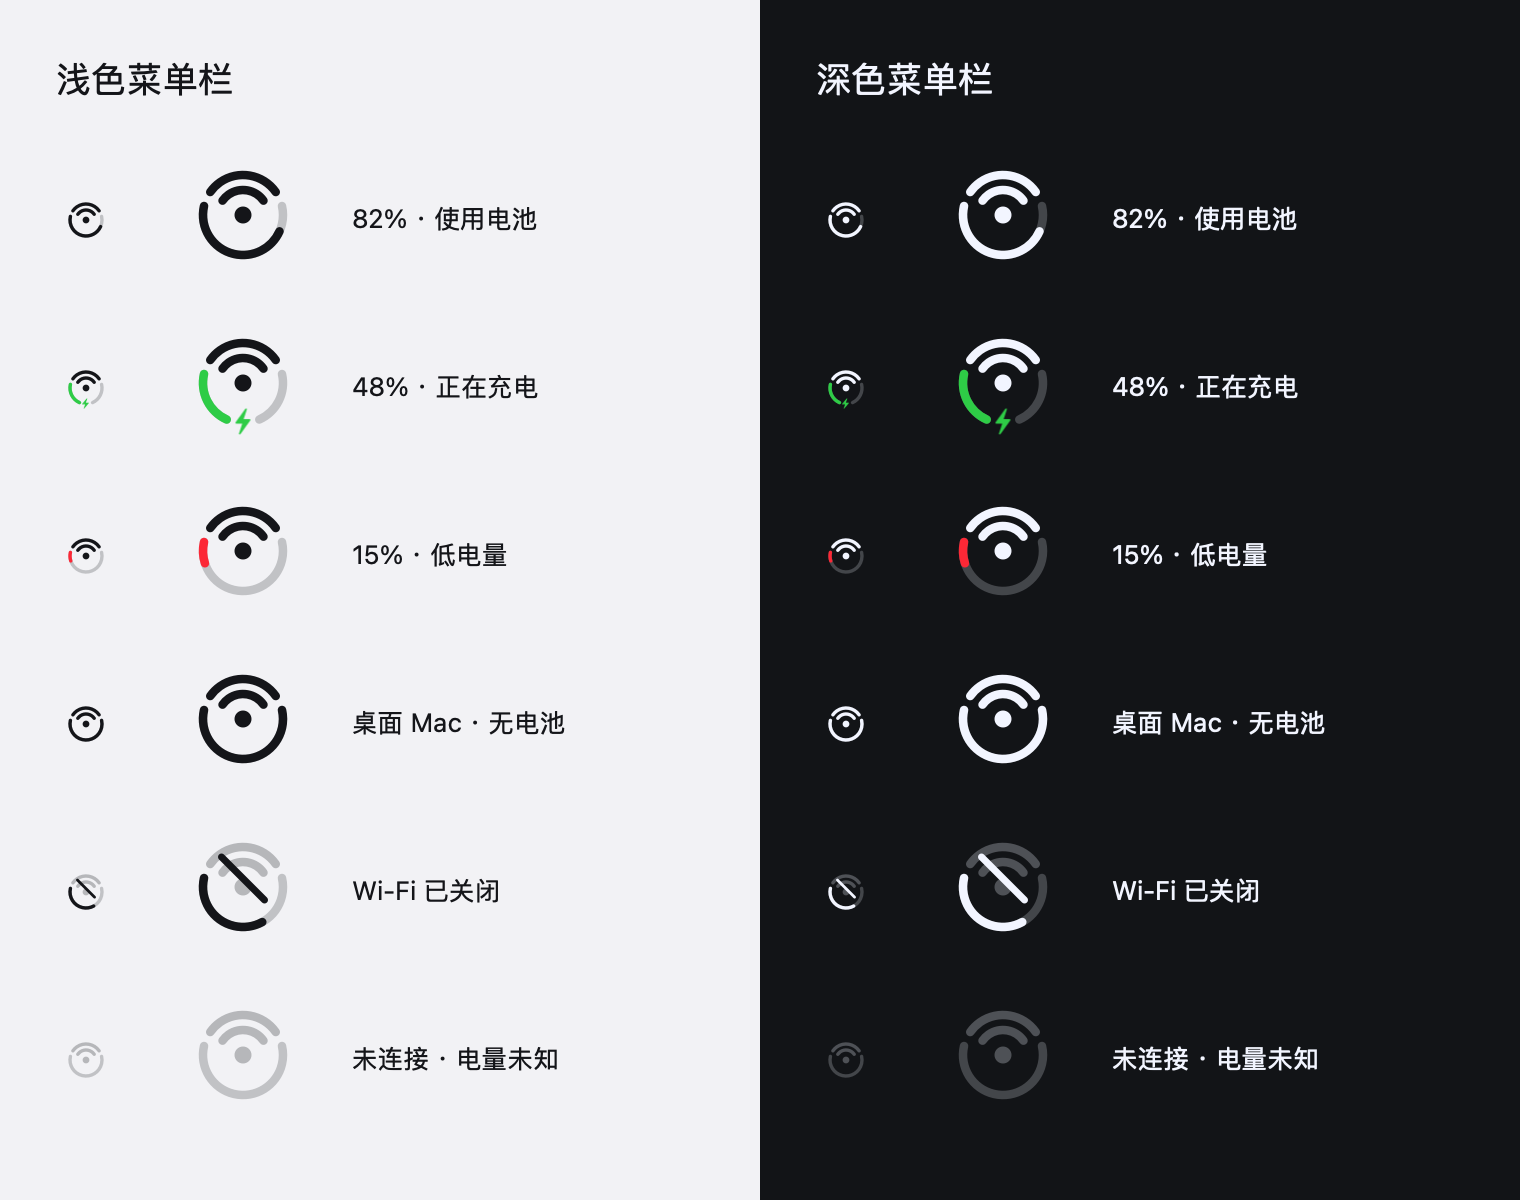
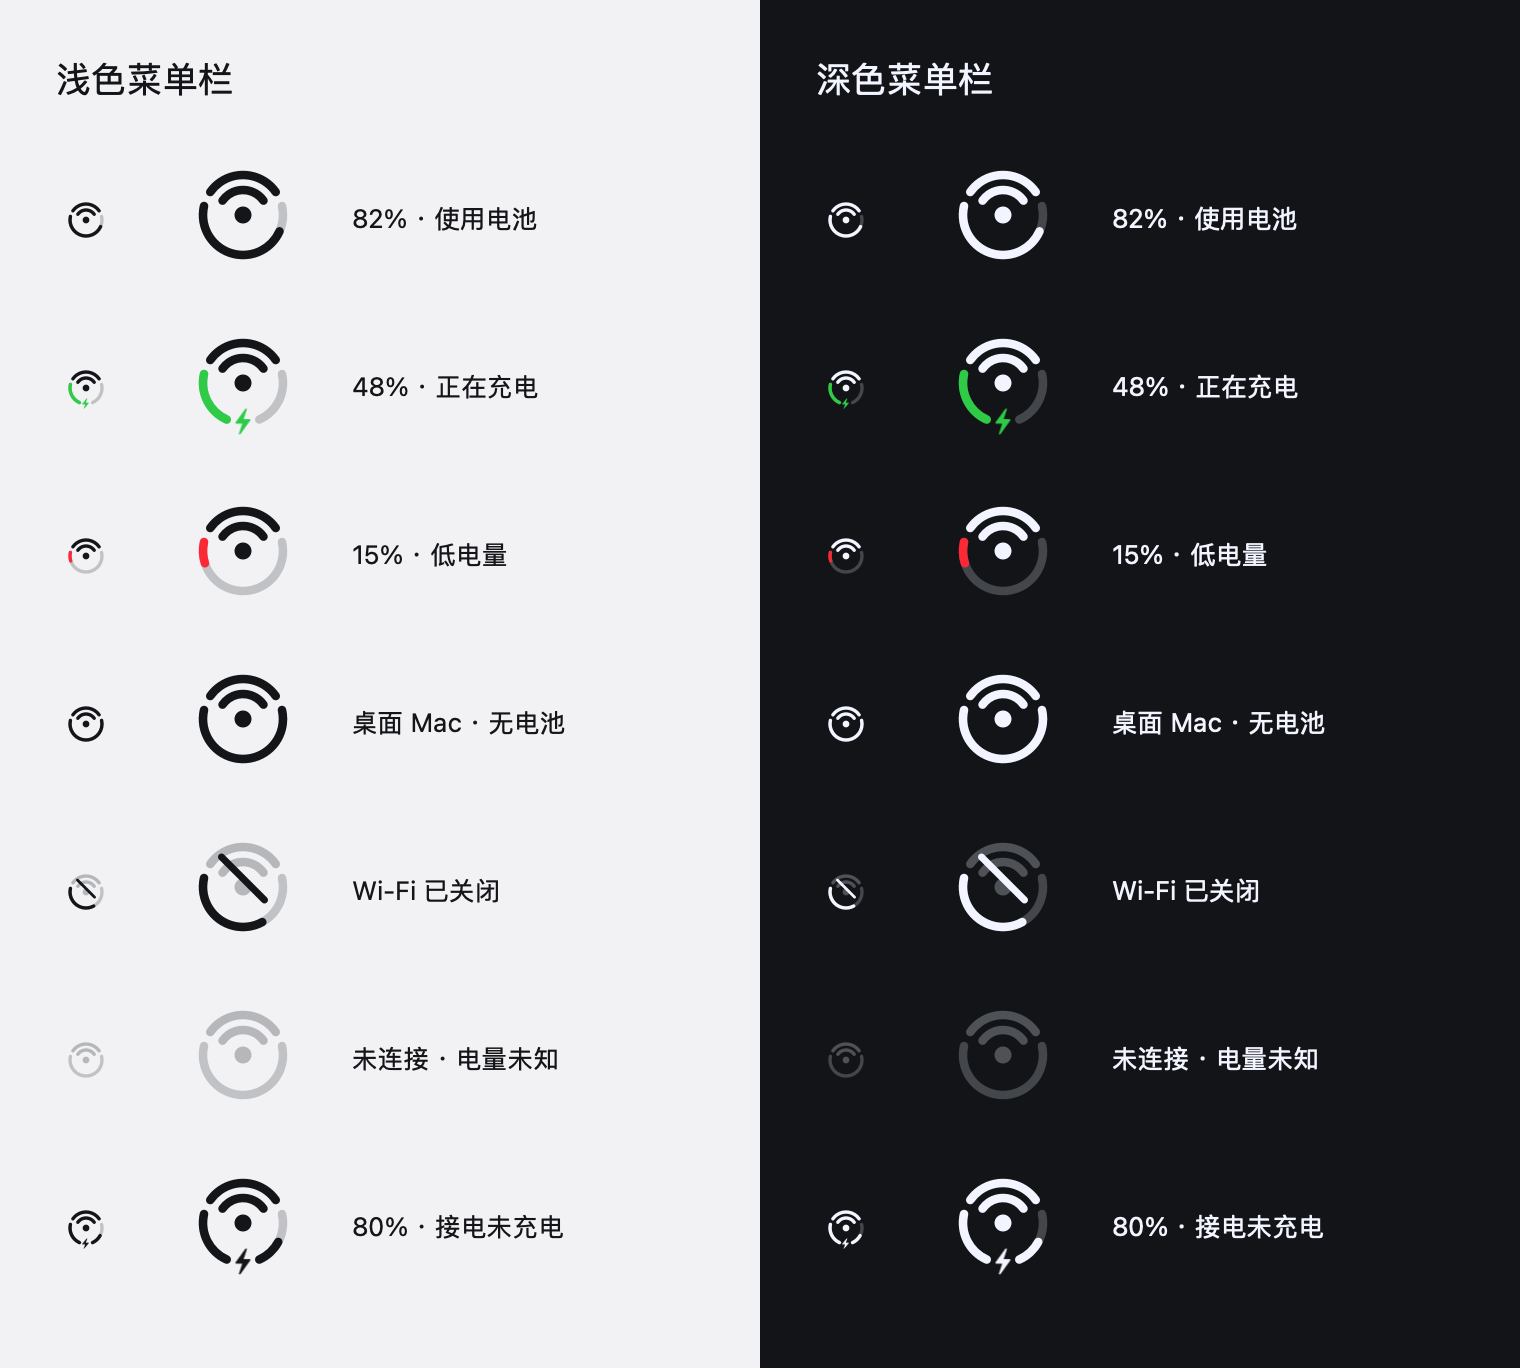
Show a neutral power bolt while connected but not charging

diff --git a/src/status_icon.rs b/src/status_icon.rs
@@ -105,8 +105,8 @@ fn arc_segment(color: &AnyObject, start: f64, end: f64, radius: f64, width: f64)
         let _: () = msg_send![&path, stroke];
     }
 }
-fn battery_arc(color: &AnyObject, end: f64, charging: bool) {
-    if charging {
+fn battery_arc(color: &AnyObject, end: f64, show_bolt: bool) {
+    if show_bolt {
         // The charge bolt is part of the circumference, centered at 270°.
         if end > BATTERY_START {
             arc_segment(color, BATTERY_START, end.min(246.), OUTER_RADIUS, STROKE);
@@ -134,7 +134,7 @@ fn symbol(name: &str, value: f64, rect: Rect, color: &AnyObject) -> Result<()> {
 fn draw(s: &Snapshot, foreground: &AnyObject) -> Result<()> {
     unsafe {
         let track: Obj = msg_send![foreground, colorWithAlphaComponent:0.22f64];
-        battery_arc(&track, BATTERY_END, s.battery.charging());
+        battery_arc(&track, BATTERY_END, s.battery.show_bolt());
         let battery_color: Obj = if s.battery.charging() {
             msg_send![class!(NSColor), systemGreenColor]
         } else if s.battery.low() {
@@ -147,7 +147,7 @@ fn draw(s: &Snapshot, foreground: &AnyObject) -> Result<()> {
                 battery_arc(
                     &battery_color,
                     BATTERY_START + (BATTERY_END - BATTERY_START) * progress,
-                    s.battery.charging(),
+                    s.battery.show_bolt(),
                 );
             }
         }
@@ -178,7 +178,7 @@ fn draw(s: &Snapshot, foreground: &AnyObject) -> Result<()> {
             let _: () = msg_send![&slash, stroke];
         }
 
-        if s.battery.charging() {
+        if s.battery.show_bolt() {
             symbol(
                 "bolt.fill",
                 1.,
@@ -279,6 +279,17 @@ pub fn export(directory: &Path) -> Result<()> {
             Battery::Unavailable,
             WifiState::Disconnected,
         ),
+        (
+            "80% · 接电未充电",
+            Battery::Internal {
+                percent: Some(80.),
+                charging: false,
+                external: true,
+                full: false,
+                minutes: None,
+            },
+            WifiState::Connected,
+        ),
     ];
     for (dark, name) in [(false, "light"), (true, "dark")] {
         let color = if dark {
@@ -294,7 +305,8 @@ pub fn export(directory: &Path) -> Result<()> {
             }
         }
     }
-    let board = bitmap(760, 600, 2, || unsafe {
+    let height = 96 + scenarios.len() * 84;
+    let board = bitmap(760, height, 2, || unsafe {
         for (column, dark) in [false, true].into_iter().enumerate() {
             let bg = if dark {
                 rgb(0.09, 0.10, 0.12, 1.)
@@ -307,7 +319,7 @@ pub fn export(directory: &Path) -> Result<()> {
                 rgb(0.10, 0.11, 0.13, 1.)
             };
             let x = column as f64 * 380.;
-            let path: Obj = msg_send![class!(NSBezierPath),bezierPathWithRect:Rect::new(Point::new(x,0.),Size::new(380.,600.))];
+            let path: Obj = msg_send![class!(NSBezierPath),bezierPathWithRect:Rect::new(Point::new(x,0.),Size::new(380.,height as f64))];
             let _: () = msg_send![&bg, setFill];
             let _: () = msg_send![&path, fill];
             label(
@@ -316,12 +328,12 @@ pub fn export(directory: &Path) -> Result<()> {
                 } else {
                     "浅色菜单栏"
                 },
-                Point::new(x + 28., 550.),
+                Point::new(x + 28., height as f64 - 50.),
                 18.,
                 &fg,
             );
             for (i, (title, battery, wifi)) in scenarios.iter().enumerate() {
-                let y = 465. - i as f64 * 84.;
+                let y = height as f64 - 135. - i as f64 * 84.;
                 let s = Snapshot::fixture(battery.clone(), wifi.clone());
                 let _: () = msg_send![class!(NSGraphicsContext), saveGraphicsState];
                 let t: Obj = msg_send![class!(NSAffineTransform), transform];
@@ -386,8 +398,24 @@ pub fn self_test() -> Result<()> {
     if !charging.chunks_exact(4).any(green) || half.chunks_exact(4).any(green) {
         return Err("充电绿色状态验证失败".into());
     }
+    let plugged = pixels(Battery::Internal {
+        percent: Some(50.),
+        charging: false,
+        external: true,
+        full: false,
+        minutes: None,
+    })?;
+    if plugged == half
+        || plugged.chunks_exact(4).any(green)
+        || !plugged
+            .chunks_exact(4)
+            .zip(charging.chunks_exact(4))
+            .all(|(a, b)| a[3] == b[3])
+    {
+        return Err("接电未充电的闪电形状或配色验证失败".into());
+    }
     println!(
-        "battery_arc_progress=passed desktop_full_arc=passed unknown_shaded_track=passed charge_color=passed"
+        "battery_arc_progress=passed desktop_full_arc=passed unknown_shaded_track=passed charge_color=passed adapter_bolt=passed"
     );
     Ok(())
 }

diff --git a/src/main.rs b/src/main.rs
@@ -47,7 +47,7 @@ fn entry() -> Result<()> {
     match args.first().map(String::as_str) {
         Some("--help") => {
             println!(
-                "Ashmactool 0.4.1\n默认：运行菜单栏应用\n--status-doctor：读取 Wi-Fi 与电源信息，不修改状态\n--status-preview DIRECTORY：导出菜单栏图标预览\n--status-icon-test：验证电量圆弧与充电配色\n--doctor：检查接口与系统箭头，不修改指针\n--inspect FILE.cape：验证主题，不修改指针\n--preview DIRECTORY：导出箭头 PNG\n--preview-all DIRECTORY：导出整套指针预览\n--restore：恢复本工具保存的原始指针\n--self-test：短暂注册内置指针，检查后立即恢复\n--power-self-test：回读屏幕唤醒请求，再释放并回读\n--ui-smoke-test：验证原生菜单动作并恢复测试前配置"
+                "Ashmactool 0.4.2\n默认：运行菜单栏应用\n--status-doctor：读取 Wi-Fi 与电源信息，不修改状态\n--status-preview DIRECTORY：导出菜单栏图标预览\n--status-icon-test：验证电量圆弧与充电配色\n--doctor：检查接口与系统箭头，不修改指针\n--inspect FILE.cape：验证主题，不修改指针\n--preview DIRECTORY：导出箭头 PNG\n--preview-all DIRECTORY：导出整套指针预览\n--restore：恢复本工具保存的原始指针\n--self-test：短暂注册内置指针，检查后立即恢复\n--power-self-test：回读屏幕唤醒请求，再释放并回读\n--ui-smoke-test：验证原生菜单动作并恢复测试前配置"
             );
             Ok(())
         }

diff --git a/src/app.rs b/src/app.rs
@@ -822,7 +822,7 @@ extern "C-unwind" fn login(_: &AnyObject, _: Sel, _: *mut AnyObject) {
 extern "C-unwind" fn about(_: &AnyObject, _: Sel, _: *mut AnyObject) {
     action(|_| {
         native::alert(
-            "Ashmactool 0.4.1",
+            "Ashmactool 0.4.2",
             "Rust 编写的原生菜单栏工具箱。\n\nWi-Fi 与电量组合图标 · 指针样式 · PNG / .cape 导入 · 保持屏幕唤醒\n\n屏幕唤醒防止闲置熄屏；合盖、手动睡眠和锁屏仍由系统处理。关闭开关或退出时释放。重启应用默认关闭。\n\n退出时恢复原始指针。系统沙滩球受接口限制以 24 帧恢复原生外观和周期，完整原始帧单独保留。\n\n私有光标接口思路来自 Alex Zielenski 的 Mousecape；参考 sdmj76 的现代版本。独立 Rust 实现采用 MIT 许可，第三方声明随包保留。\n\n部分应用自行绘制指针，可能覆盖系统主题。系统升级后可能需要兼容性更新。\n\n导入主题和原始指针备份保存在用户的 Application Support/Ashmactool 中。",
         );
         Ok(())

diff --git a/src/system_status.rs b/src/system_status.rs
@@ -56,6 +56,12 @@ impl Battery {
     pub fn charging(&self) -> bool {
         matches!(self, Self::Internal { charging: true, .. })
     }
+    pub fn show_bolt(&self) -> bool {
+        matches!(
+            self,
+            Self::Internal { external: true, .. } | Self::Internal { charging: true, .. }
+        )
+    }
     pub fn low(&self) -> bool {
         matches!(self, Self::Internal { percent: Some(p), external: false, charging: false, .. } if *p <= 20.)
     }
@@ -423,6 +429,8 @@ mod tests {
             minutes: None,
         };
         assert_eq!(b.progress(), Some(0.));
+        assert!(!b.show_bolt());
+        assert!(!Battery::None.show_bolt());
         assert!(b.low());
         assert!(!b.charging());
         let b = Battery::Internal {
@@ -433,6 +441,7 @@ mod tests {
             minutes: None,
         };
         assert!(!b.charging());
+        assert!(b.show_bolt());
         assert!(b.summary().contains("未充电"));
     }
 }

diff --git a/VALIDATION.md b/VALIDATION.md
@@ -1,5 +1,18 @@
 # Ashmactool 验证记录
 
+## v0.4.2 接电但未充电的普通闪电
+
+日期：2026-10-15。
+
+- 内置电池接入适配器时显示外圈底部闪电；仅正在充电时将闪电与进度变绿。接电未充电、接电已充满均使用普通前景色。使用电池时不显示闪电；无内置电池 Mac 保留原来的满弧表现。
+- `cargo test --locked`：9 项测试通过，覆盖接电未充电状态与闪电显示条件；Clippy 警告视为错误通过。
+- 最终 release 图标像素验证：接电未充电与正在充电的几何/透明度蒙版一致，前者没有绿色，且与未接电的图像有区别。新增浅色 / 深色接电未充电预览。
+- 最终 release `--ui-smoke-test`：原生图标绘制、菜单、无障碍描述、桌面 Mac 状态、事件订阅、指针切换与电源请求动作通过。
+- `--status-doctor` 本机回读确认处于接入适配器但未充电状态。未主动改变充电器或系统充电设置。
+- 严格 ad hoc 签名、Info.plist 0.4.2 / build 7、ZIP 完整性通过。
[2 lines of base64/hex data omitted]
+
 ## v0.4.1 菜单栏图标比例调整
 
 日期：2026-10-15。此版本仅调整图标几何、未知状态绘制及版本文案。

diff --git a/README.md b/README.md
@@ -31,7 +31,7 @@ Rust 编写的 macOS 菜单栏小工具箱。原生 AppKit 界面、单进程、
 菜单栏使用 22 点矢量图标：Wi-Fi 最外层信号弧和电量弧共用同一个圆心、半径与线宽，外圈半径收至 8 点，Wi-Fi 弧展开得更宽，内层弧与圆点比例增大，两侧分段间距略微拉宽。Wi-Fi 内层弧和圆点保留在圆内；满信号时最外层弧构成外圆的上部，电量进度构成其余部分。
 
 - 电量从左侧沿外圆向下、向右增长，底色轨道保留完整轮廓。
-- 充电时进度与闪电为绿色，更大的闪电嵌在外圈正下方；接电但未充电不会误显示充电。
+- 充电时进度与闪电为绿色，更大的闪电嵌在外圈正下方；接电但未充电时仍显示闪电，闪电与电量弧使用普通前景色；仅正在充电时变绿。
 - 使用电池且电量不超过 20% 时显示红色；电源信息未知时只显示连续的淡色底弧。
 - 无内置电池的 Mac 使用固定满进度，菜单注明“无内置电池”。UPS 等外置电源不作为内置电池。
 - Wi-Fi 强度、关闭、未连接状态分别呈现，并提供文字提示及无障碍描述。
